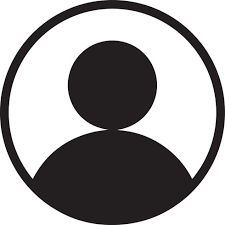
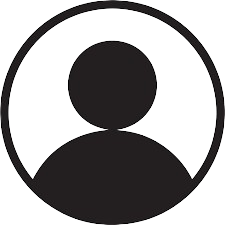
terminando css login

diff --git a/index.html b/index.html
@@ -4,40 +4,47 @@
     <meta charset="UTF-8">
     <meta name="viewport" content="width=device-width, initial-scale=1.0">
     <title>Login</title>
-    <link rel="stylesheet" href="assets/css/login.css">
+    <link rel="icon" href="assets/images/icone.png">
+    <link rel="stylesheet" href="assets/css/style.css">
 </head>
 <body>
-    <header>
-        <div id="logo">
-            <img src="assets/images/img1.png" alt="Imagem da Logo" height="50" width="50">
-        </div>
-    </header>
-    <div id="perfil">
-        <img src="assets/images/img2.png" alt="Imagem de Perfil" height="50" width="50">
-    </div>
-    <img src="assets/images/img_fundo.png" alt="Imagem de fundo do login">
-    <div id="titulo_login">
-        <h1>Seja Bem-Vindo<br>
-        Faça Login na sua conta!</h1>
-    </div>
-    <form class="form_login" method="get" action="dashboard.html">
-        <label for="email">E-mail</label>
-        <input type="email" name="email" id="email" placeholder="Digite seu e-mail" required>
-        <label for="senha">Senha</label>
-        <input type="password" name="senha" id="senha" placeholder="Digite sua senha" required minlength="8">
-        <div class="botoes">
-            <a id="cadastro" href="cadastro.html">Cadastre-se</a>
-            <input type="submit" id="login" value="login">
-            <a id="email_recuperacao" href="email_recuperacao.html">Esqueci minha senha</a>
+    <main>
+        <div class="lado_esquerdo">
+            <div id="logo">
+                <img src="assets/images/img1.png" alt="Imagem da Logo" height="200" width="200">
+            </div>
+            <div id="titulo_login">
+                <h1>Seja Bem-Vindo<br>
+                Faça Login na sua conta!</h1>
+            </div>
             <a id="sabermais" href="https://www.automateshow.com/blog/how-automation-is-impacting-the-automotive-industry-today" target="_blank">Saiba Mais ></a>
+            <div class="rodape">
+                <p>&copy; 2026 Fregulia. Todos os direitos reservados</p>
+                <ul>
+                    <li><a href="https://pedrotech.com.br/pedrolandia/" target="_blank">Sobre</a></li>
+                    <li><a href="#">Contato</a></li>
+                </ul>
+            </div>
         </div>
-    </form>
+        <div class="lado_direito">
+            <div id="perfil">
+                <img src="assets/images/img2.png" alt="Imagem de Perfil" height="150" width="150">
+            </div>
+            <form class="form_login" method="get" action="dashboard.html">
+                <label for="email">E-mail</label>
+                <input type="email" name="email" id="email" placeholder="Digite seu e-mail" required>
+                <label for="senha">Senha</label>
+                <input type="password" name="senha" id="senha" placeholder="Digite sua senha" required minlength="8">
+                <div class="botoes">
+                    <a id="cadastro" href="cadastro.html">Cadastre-se</a>
+                    <input type="submit" id="login" value="login">
+                    <a id="email_recuperacao" href="email_recuperacao.html">Esqueci minha senha</a>
+                </div>
+            </form>
+        </div>
+    </main>
     <footer>
-        <ul>
-            <li><a href="https://pedrotech.com.br/pedrolandia/" target="_blank">Sobre</a></li>
-            <li><a href="#">Contato</a></li>
-        </ul>
-        <p>&copy; 2026 Fregulia. Todos os direitos reservados</p>
+        
     </footer>
 </body>
 </html>

diff --git a/assets/css/style.css b/assets/css/style.css
@@ -1,0 +1,53 @@
+* {
+    margin: 0;
+    padding: 0;
+    box-sizing: border-box;
+}
+
+body {
+    height: 100vh;
+    background: linear-gradient(90deg, rgba(91, 21, 6, 1) 0%, rgba(153, 7, 7, 1) 50%);
+    color: rgb(255, 199, 0);
+}
+
+main {
+    display: flex;
+}
+
+.lado_esquerdo {
+    background-image: url('../images/img_fundo.png');
+    width: 40%;
+    height: 100vh;
+    background-repeat: no-repeat;
+    background-size: cover;
+    background-position: center;
+    text-align: center;
+    display: flex;
+    flex-direction: column;
+    justify-content: space-around;
+}
+
+.rodape {
+    display: flex;
+    justify-content: space-around;
+    align-items: center;
+}
+
+#sabermais {
+    align-self: flex-start;
+    margin-left: 20px;
+    background: linear-gradient(90deg, rgba(91, 21, 6, 1) 0%, rgba(153, 7, 7, 1) 50%);
+    color: rgb(255, 199, 0);
+    padding: 10px;
+    text-decoration: none;
+}
+
+.lado_direito {
+    display: flex;
+    flex-direction: column;
+    align-content: center;
+    height: 100vh;
+    align-items: center;
+    width: 60%;
+    justify-content: space-around;
+}
